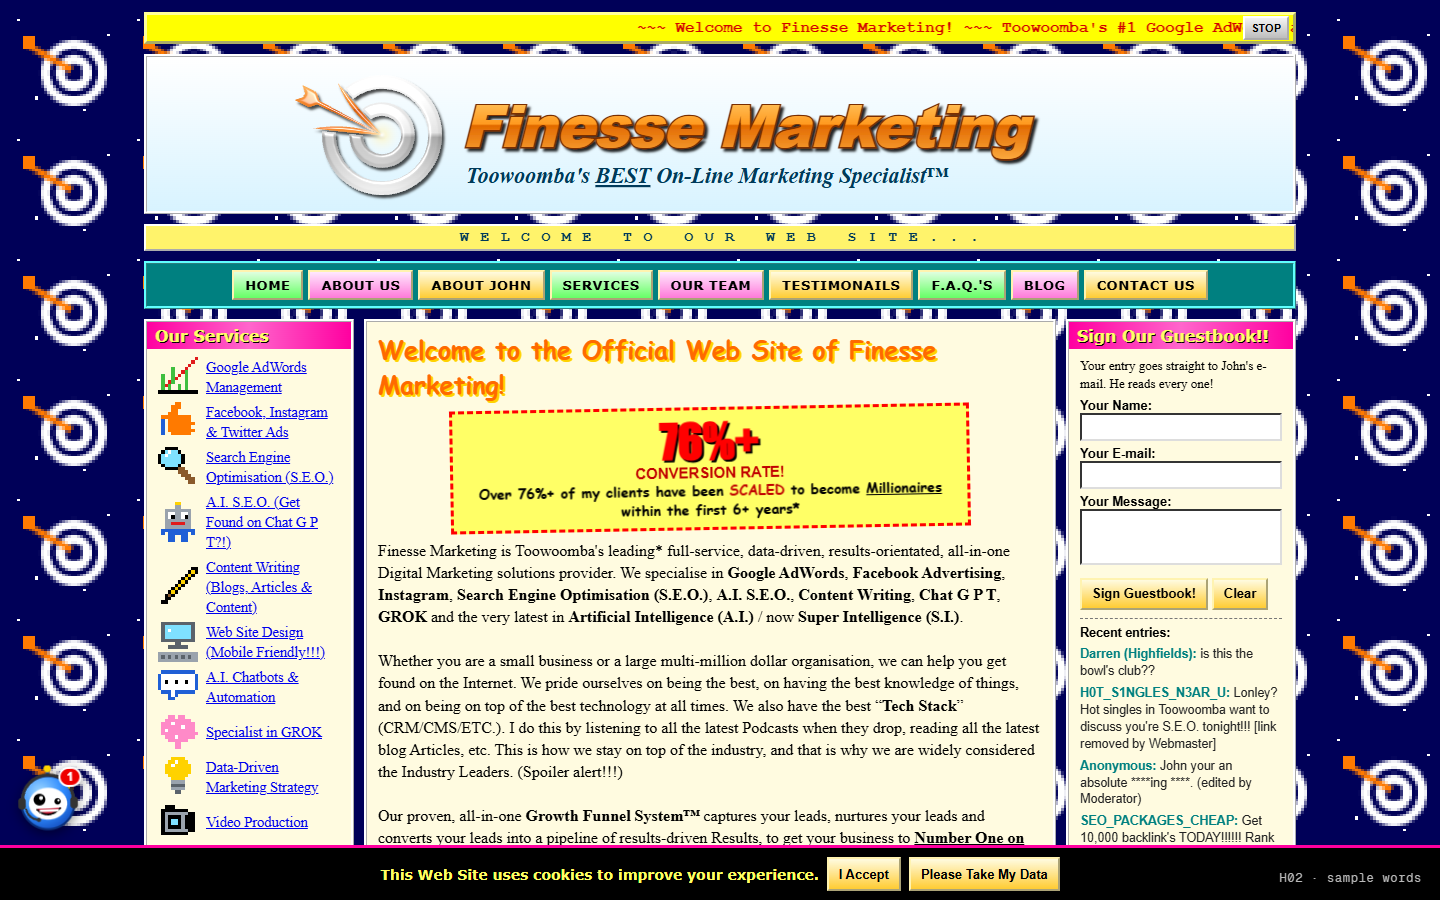
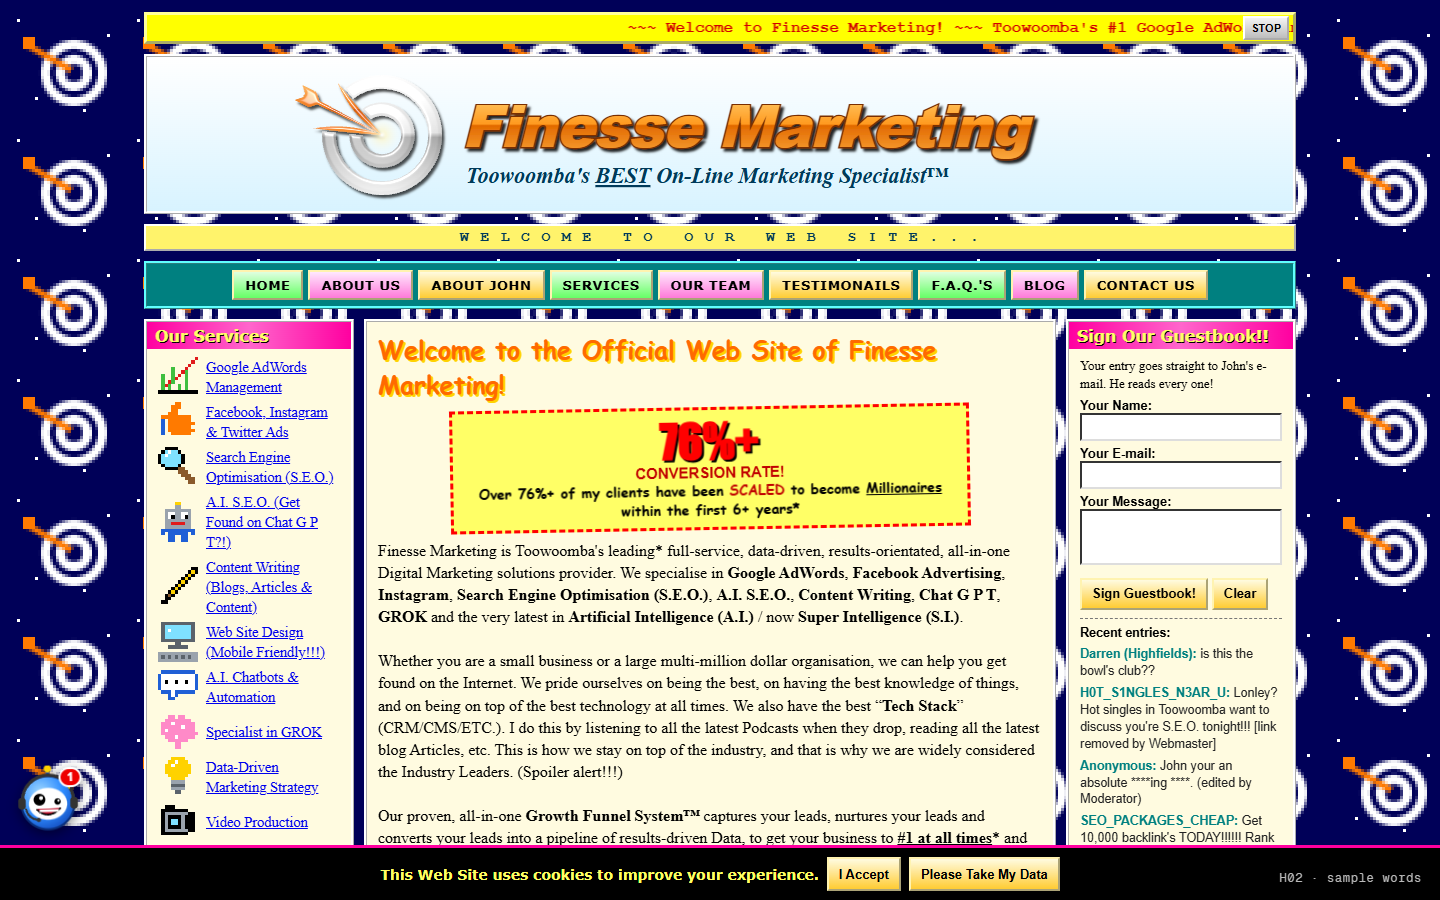
Hero ideas preview: Ninety-six round 3o

diff --git a/look/website-hero/ninety-six.html b/look/website-hero/ninety-six.html
@@ -317,7 +317,7 @@
     <div class="mid">
       <div class="box welcome"><h2 title="Heading (welcome)">Welcome to the Official Web Site of Finesse Marketing!</h2>
         <p class="bigstat"><b>76%+</b> CONVERSION RATE!<br><span>Over 76%+ of my clients have been <b class="sc">Scaled</b> to become <u>Millionaires</u> within the first 6+ years*</span></p>
-        <p>Finesse Marketing is Toowoomba's leading* full-service, data-driven, results-orientated, all-in-one Digital Marketing solutions provider. We specialise in <b>Google AdWords</b>, <b>Facebook Advertising</b>, <b>Instagram</b>, <b>Search Engine Optimisation (S.E.O.)</b>, <b>A.I. S.E.O.</b>, <b>Content Writing</b>, <b>Chat G P T</b>, <b>GROK</b> and the very latest in <b>Artificial Intelligence (A.I.)</b> / now <b>Super Intelligence (S.I.)</b>.<br><br>Whether you are a small business or a large multi-million dollar organisation, we can help you get found on the Internet. We pride ourselves on being the best, on having the best knowledge of things, and on being on top of the best technology at all times. We also have the best &#8220;<b>Tech Stack</b>&#8221; (CRM/CMS/ETC.). I do this by listening to all the latest Podcasts when they drop, reading all the latest blog Articles, etc. This is how we stay on top of the industry, and that is why we are widely considered the Industry Leaders. (Spoiler alert!!!)<br><br>Our proven, all-in-one <b>Growth Funnel System&#8482;</b> captures your leads, nurtures your leads and converts your leads into a pipeline of results-driven Results, to get your business to <b><u>Number One on Google at all times</u></b>*. <b><u>CONTACT US TODAY TO TAKE YOUR BUSINESS TO THE NEXT LEVEL!!</u></b> And then the level after that!!!!<br><br>Probably the hardest-working Digital Marketing company in Toowoomba.* Please browse our Website and click with confidence!</p>
+        <p>Finesse Marketing is Toowoomba's leading* full-service, data-driven, results-orientated, all-in-one Digital Marketing solutions provider. We specialise in <b>Google AdWords</b>, <b>Facebook Advertising</b>, <b>Instagram</b>, <b>Search Engine Optimisation (S.E.O.)</b>, <b>A.I. S.E.O.</b>, <b>Content Writing</b>, <b>Chat G P T</b>, <b>GROK</b> and the very latest in <b>Artificial Intelligence (A.I.)</b> / now <b>Super Intelligence (S.I.)</b>.<br><br>Whether you are a small business or a large multi-million dollar organisation, we can help you get found on the Internet. We pride ourselves on being the best, on having the best knowledge of things, and on being on top of the best technology at all times. We also have the best &#8220;<b>Tech Stack</b>&#8221; (CRM/CMS/ETC.). I do this by listening to all the latest Podcasts when they drop, reading all the latest blog Articles, etc. This is how we stay on top of the industry, and that is why we are widely considered the Industry Leaders. (Spoiler alert!!!)<br><br>Our proven, all-in-one <b>Growth Funnel System&#8482;</b> captures your leads, nurtures your leads and converts your leads into a pipeline of results-driven Data, to get your business to <b><u>#1 at all times</u></b>* and to get your phone number ringing. And if you have online sales, we can do that too. <b><u>CONTACT US TODAY TO TAKE YOUR BUSINESS TO THE NEXT LEVEL!!</u></b> And then the level after that!!!!<br><br>Probably the hardest-working Digital Marketing company in Toowoomba.* Please browse our Website and click with confidence!</p>
         <p class="slogan">Marketing... the Finesse way!!!</p></div>
       <div class="box"><h3>Our Proven 3-Step Process</h3><ol class="steps"><li><b>Step 1:</b> Funnel</li><li><b>Step 2:</b> Grow Your Funnel</li><li><b>Step 3:</b> Results?!</li><li><b>Step 4:</b> Retention</li><li><b>Step 5:</b> Re-Funnel the Retention</li><li><b>Step 3b:</b> Synergy (see Step 2)</li><li><b>Step 0:</b> Awareness (do this first)</li></ol><p style="font:12px Arial;text-align:center">All steps are proven.</p></div>
       <div class="box mission"><h3 style="font-style:normal">Our Mission</h3>To be the best marketing company we can be, for the business of promoting other businesses through advertising and online marketing, including S.E.O., in Toowoomba, and also Australia.</div>
